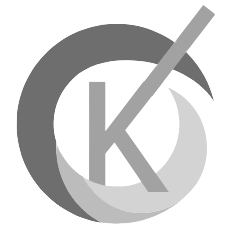
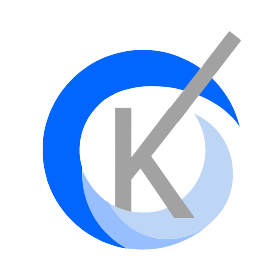
fix: corrgiendo detalles notados en el primer build de android

diff --git a/src/components/screens/CheckListScreen.jsx b/src/components/screens/CheckListScreen.jsx
@@ -1,5 +1,5 @@
 import React from 'react';
-import { View, Text, SectionList, Image, StyleSheet } from 'react-native';
+import { View, Text, SectionList, Image, StyleSheet, StatusBar } from 'react-native';
 import { LinearGradient } from 'expo-linear-gradient';
 
 import Data from '../../data/Data';
@@ -100,82 +100,86 @@ export default function CheckListScreen({ navigation, route }) {
         <LinearGradient 
             style={styles.screen}
             colors={[theme.colors.secundary, theme.colors.tertiary, theme.colors.quaternary]}>
-                <LogContext.Provider
-                    value={{ log: log }}>
-                    <SectionList
-                        style={styles.checkList}
-                        contentContainerStyle={styles.checkListContent}
-                        sections={checklistSections}
-                        keyExtractor={(element) => element.id}
-                        renderItem={({ item, index, section }) => (
-                            <Check
-                                style={{ marginBottom: 30 }}
-                                question={item.question}
-                                checkIndex={index}
-                                sectionIndex={section.index}
-                                answerType={item.answerType}
-                                answers={item.answers}
-                                // Opcionales
-                                elements={item.elements}
-                                elementsHeader={item.elementsHeader} />
-                        )}
-                        renderSectionHeader={({ section: { title } }) => (
-                            <View style={styles.sectionContainer}>
-                                <Title>{title}</Title>
-                            </View>
+            <StatusBar
+                backgroundColor={theme.colors.secundary}
+                barStyle={"dark-content"} />
+                
+            <LogContext.Provider
+                value={{ log: log }}>
+                <SectionList
+                    style={styles.checkList}
+                    contentContainerStyle={styles.checkListContent}
+                    sections={checklistSections}
+                    keyExtractor={(element) => element.id}
+                    renderItem={({ item, index, section }) => (
+                        <Check
+                            style={{ marginBottom: 30 }}
+                            question={item.question}
+                            checkIndex={index}
+                            sectionIndex={section.index}
+                            answerType={item.answerType}
+                            answers={item.answers}
+                            // Opcionales
+                            elements={item.elements}
+                            elementsHeader={item.elementsHeader} />
+                    )}
+                    renderSectionHeader={({ section: { title } }) => (
+                        <View style={styles.sectionContainer}>
+                            <Title>{title}</Title>
+                        </View>
 
-                        )}
-                        ListEmptyComponent={() => (
-                            <Text>No hay elementos que revisar en este checklist...</Text>
-                        )}
-                        ListHeaderComponent={() => (
-                            <View style={styles.checkListHeader}>
-                                <Title style={{ color: theme.colors.light, fontSize: theme.fontSizes.bigText }}>Check List</Title>
-                                <TextDefault style={{ color: theme.colors.light, textAlign: "center" }}>Responda todas las preguntas para completar el Check List.</TextDefault>
-                                <View style={{ paddingVertical: 15, flexDirection: "row", alignItems: "center" }}>
-                                    <Image
-                                        style={styles.image}
-                                        source={equipment.image} />
-                                    <View>
-                                        <TextDefault style={{ color: theme.colors.light, fontWeight: theme.fontWeights.bold }}>{equipment.type}</TextDefault>
-                                        <TextDefault style={{ color: theme.colors.light }}>{equipment.name}</TextDefault>
-                                    </View>
+                    )}
+                    ListEmptyComponent={() => (
+                        <Text>No hay elementos que revisar en este checklist...</Text>
+                    )}
+                    ListHeaderComponent={() => (
+                        <View style={styles.checkListHeader}>
+                            <Title style={{ color: theme.colors.light, fontSize: theme.fontSizes.bigText }}>Check List</Title>
+                            <TextDefault style={{ color: theme.colors.light, textAlign: "center" }}>Responda todas las preguntas para completar el Check List.</TextDefault>
+                            <View style={{ paddingVertical: 15, flexDirection: "row", alignItems: "center" }}>
+                                <Image
+                                    style={styles.image}
+                                    source={equipment.image} />
+                                <View>
+                                    <TextDefault style={{ color: theme.colors.light, fontWeight: theme.fontWeights.bold }}>{equipment.type}</TextDefault>
+                                    <TextDefault style={{ color: theme.colors.light }}>{equipment.name}</TextDefault>
                                 </View>
                             </View>
-                        )}
-                        ListFooterComponent={() => (
-                            <View style={styles.checkListFooter}>
-                                <SecundaryButton
-                                    onPress={() => cancelConfirmDialog.setVisible(true)}>
-                                    Cancelar
-                                </SecundaryButton>
-                                <Button
-                                    onPress={() => finalizeConfirmDialog.setVisible(true)}>
-                                    Finalizar
-                                </Button>
-                            </View>
-                        )} />
-                </LogContext.Provider>
-                
-                <ConfirmDialog
-                    title="Finalizar"
-                    text="¿Deseas finalizar el Check List?"
-                    reference={finalizeConfirmDialog}
-                    onConfirm={finalize} />
-                <ConfirmDialog
-                    title="Cancelar"
-                    text="Si cancelas el Check List ahora se perderá el progreso."
-                    reference={cancelConfirmDialog}
-                    onConfirm={cancel} />
-                <MessageDialog
-                    title="Información"
-                    text="Se guardó correctamente el Check List."
-                    reference={successfulMessageDialog}
-                    onConfirm={() => navigation && navigation.goBack() } />
-                <MessageDialog
-                    title="Información"
-                    text="No se pudo guardar el Check List."
-                    reference={errorMessageDialog} />
+                        </View>
+                    )}
+                    ListFooterComponent={() => (
+                        <View style={styles.checkListFooter}>
+                            <SecundaryButton
+                                onPress={() => cancelConfirmDialog.setVisible(true)}>
+                                Cancelar
+                            </SecundaryButton>
+                            <Button
+                                onPress={() => finalizeConfirmDialog.setVisible(true)}>
+                                Finalizar
+                            </Button>
+                        </View>
+                    )} />
+            </LogContext.Provider>
+            
+            <ConfirmDialog
+                title="Finalizar"
+                text="¿Deseas finalizar el Check List?"
+                reference={finalizeConfirmDialog}
+                onConfirm={finalize} />
+            <ConfirmDialog
+                title="Cancelar"
+                text="Si cancelas el Check List ahora se perderá el progreso."
+                reference={cancelConfirmDialog}
+                onConfirm={cancel} />
+            <MessageDialog
+                title="Información"
+                text="Se guardó correctamente el Check List."
+                reference={successfulMessageDialog}
+                onConfirm={() => navigation && navigation.goBack() } />
+            <MessageDialog
+                title="Información"
+                text="No se pudo guardar el Check List."
+                reference={errorMessageDialog} />
         </LinearGradient>
     )
 }

diff --git a/src/components/screens/LoginScreen.jsx b/src/components/screens/LoginScreen.jsx
@@ -1,5 +1,5 @@
 import React from 'react';
-import { View, StyleSheet } from 'react-native';
+import { View, StyleSheet,StatusBar } from 'react-native';
 import { LinearGradient } from 'expo-linear-gradient';
 import theme from '../../utils/theme.js';
 
@@ -63,10 +63,16 @@ export default function LoginScreen({navigation}) {
     return (
         <LinearGradient style={styles.screen}
             colors={[theme.colors.light, theme.colors.tertiary, theme.colors.primary]}>
+            <StatusBar
+                backgroundColor={theme.colors.light}
+                barStyle={"dark-content"} />
+
             <View style={styles.login}>
-                <Logo/>
-                <Title 
-                    text="Check Kit"/>
+                <View style={styles.logoContainer}>
+                    <Logo/>
+                    <Title 
+                        text="Check Kit"/>
+                </View>
                 <TextField 
                     value={userText}
                     placeHolder="Usuario" 
@@ -80,11 +86,15 @@ export default function LoginScreen({navigation}) {
                     style={{marginTop: 15}}
                     text="Iniciar sesión" 
                     onPress={tryLogin}/> 
-                <TextDefault style={{marginTop: 10}}>o ingresar como <TextButton onPress={invitedLogin}>invitado</TextButton></TextDefault>
+                <View style={{flexDirection: "row", alignItems: "center", marginTop: 10}}>
+                    <TextDefault>o ingresar como </TextDefault>
+                    <TextButton onPress={invitedLogin}>invitado</TextButton>
+                </View>
+                
                 
             </View>
 
-            <TextDefault style={styles.versionContainer}>v {version}</TextDefault>
+            <TextDefault style={styles.version}>versión {version}</TextDefault>
 
             <MessageDialog
                 title="Aviso"
@@ -101,22 +111,29 @@ const styles = StyleSheet.create({
         alignItems: "center",
         justifyContent: "center",
         backgroundColor: theme.colors.tertiary,
+        
     },
     login: {
         width: "75%",
         maxWidth: 350,
         height: 400,
-        borderRadius: 10,
+        borderRadius: 20,
         backgroundColor: theme.colors.lightDark,
-        padding: 22,
+        paddingVertical: 20,
+        paddingHorizontal: 25,
 
         justifyContent: "space-around",
         alignItems: "center",
     },
-    versionContainer: {
+    logoContainer: {
+        alignItems: "center",
+        marginTop: 15,
+    },
+    version: {
         position: "absolute",
         right: 25,
         bottom: 15,
-        color: theme.colors.lightDark,
+        fontSize: theme.fontSizes.smallText,
+        color: theme.colors.secundary,
     }
 });

diff --git a/src/components/integrated/HeaderBar.jsx b/src/components/integrated/HeaderBar.jsx
@@ -1,5 +1,5 @@
 import React from 'react';
-import { View, StyleSheet } from 'react-native';
+import { View, StyleSheet, StatusBar } from 'react-native';
 import Constants from 'expo-constants';
 import theme from '../../utils/theme.js';
 import sources from '../../utils/sources.js';
@@ -60,22 +60,29 @@ export default function HeaderBar(props) {
         }
     }
 
+    // Quitar el espacio?
+    // Centrar el text button invitado YA
+    // Cambiar el nombre y paque de la app YA
+    // Cambiar las imagenes de blanco y negro a color YA
+    // Mas pequeña la imagen del icono de la app YA
+
+    //<View style={[{height: Constants.statusBarHeight}, !transparent &&  { backgroundColor: theme.colors.light }]}/>
+
     return(
-        <>
-            <View style={[{height: Constants.statusBarHeight}, !transparent &&  { backgroundColor: theme.colors.light }]}/>
+        <View style={{width: "100%"}}>
+            <StatusBar
+                backgroundColor={theme.colors.light}
+                barStyle={"dark-content"} />
             <View style={[styles.header, !transparent && { backgroundColor: theme.colors.light, borderBottomWidth: 2 }, style]}>
-                
-                <View style={styles.bar}>
-                    {
-                        isLargeScreen && buttonType === "menu"
-                            ? selectButtonType("none")
-                            : selectButtonType(buttonType)
-                    }
-                    <Title style={{ fontWeight: theme.fontWeights.semiBold }}>{children ? children : title}</Title>
-                    <View style={{width: 36}}/>
-                </View>
+                {
+                    isLargeScreen && buttonType === "menu"
+                        ? selectButtonType("none")
+                        : selectButtonType(buttonType)
+                }
+                <Title style={{ fontWeight: theme.fontWeights.semiBold }}>{children ? children : title}</Title>
+                <View style={{ width: 36 }} />
             </View>
-        </>
+        </View>
         
     )
 
@@ -86,13 +93,9 @@ const styles = StyleSheet.create({
         width: "100%",
         height: 65,
         borderBottomColor: theme.colors.lightDark,
-    },
-    bar: {
-        width: "100%",
-        height: "100%",
         paddingHorizontal: 12,
         flexDirection: "row",
         justifyContent: "space-between",
         alignItems: "center",
-    }
+    },
 });

diff --git a/src/components/screens/MaintenanceConfirmScreen.jsx b/src/components/screens/MaintenanceConfirmScreen.jsx
@@ -100,7 +100,7 @@ export default function MaintenanceConfirmScreen({ route, navigation }){
                 </Section>
                 <Button 
                     onPress={navigateToCheckList}
-                    style={{maxWidth: 300, marginBottom: 25, marginHorizontal: "auto"}}>
+                    style={{maxWidth: 300, marginBottom: 45, marginHorizontal: "auto"}}>
                     Empezar Mantenimiento
                 </Button>
             </ScrollView>

diff --git a/src/components/integrated/DrawerMenu.jsx b/src/components/integrated/DrawerMenu.jsx
@@ -141,7 +141,7 @@ export default function DrawerMenu(props) {
 const styles = StyleSheet.create({
     drawer: {
         flex: 1,
-        marginTop: Constants.statusBarHeight, 
+        //marginTop: Constants.statusBarHeight, 
     },
     drawerHeader: {
         padding: 12,
